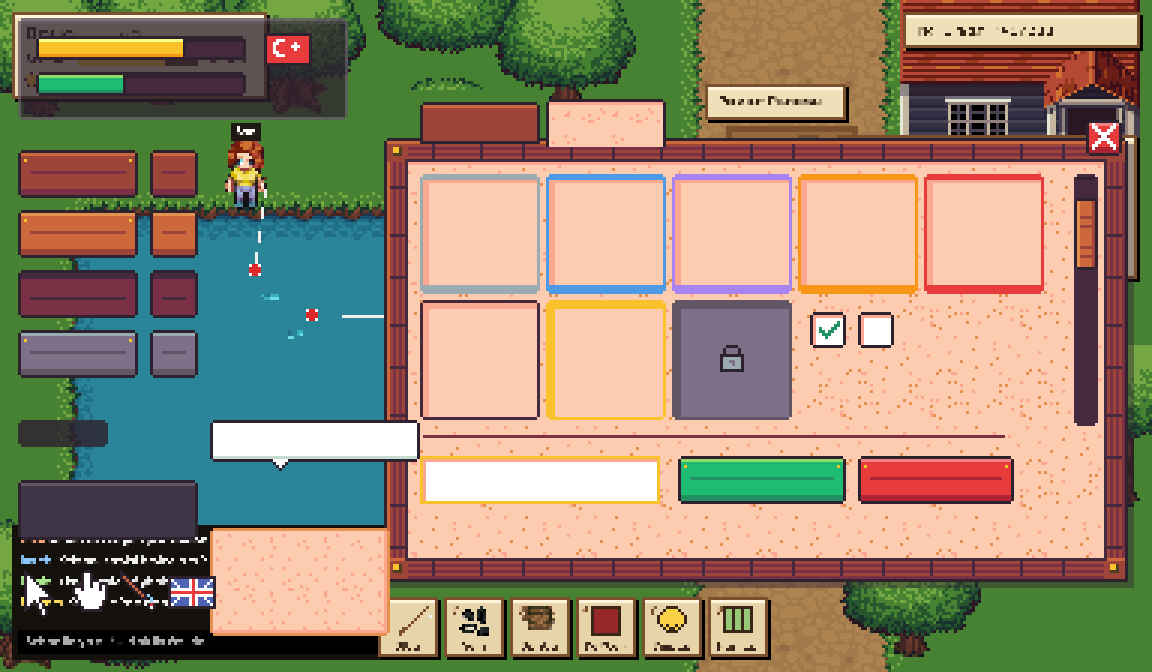
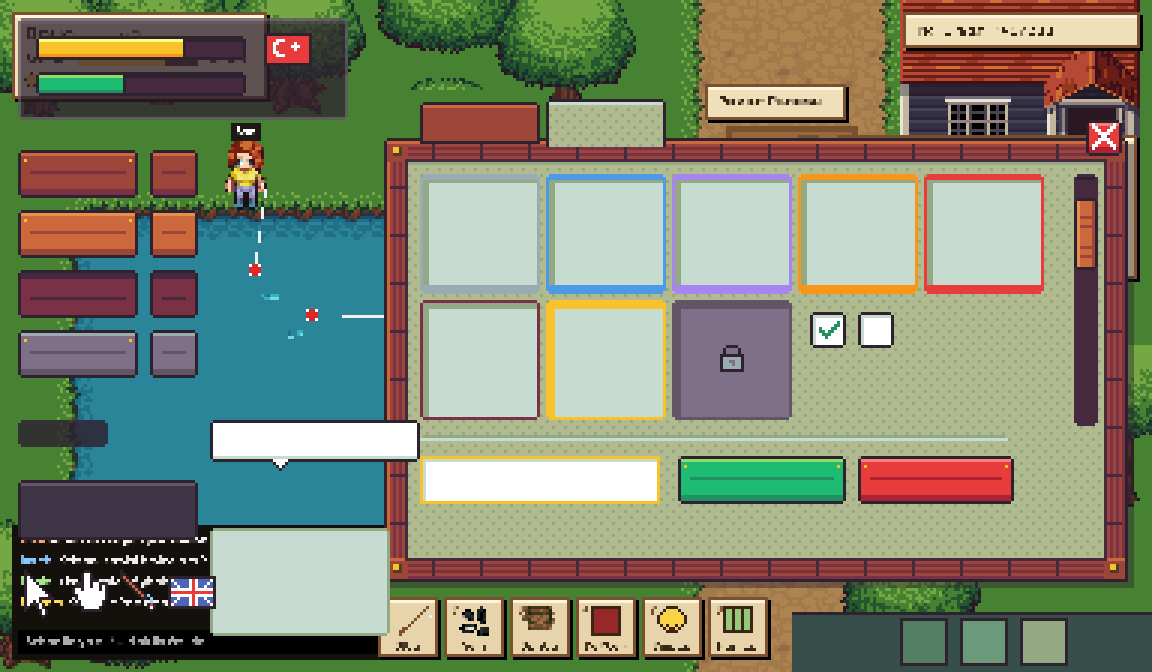
Regenerate UI kit in wood frame + sage linen theme
Adds hud_bar, flat bar buttons, card, context menu pieces; card_paper is replaced by card.

Claude-Session: https://claude.ai/code/session_01UfpJh6XiKn1JK12jZPSetR

diff --git a/tools/ui-kit/make_ui_kit.py b/tools/ui-kit/make_ui_kit.py
@@ -1,4 +1,4 @@
-"""Draws the pixel UI kit (Resurrect 64, "dark wood" theme) into client/Assets/Art/UI.
+"""Draws the pixel UI kit (Resurrect 64, wood frame + sage linen theme) into client/Assets/Art/UI.
 
 Run from the repo root:  python3 tools/ui-kit/make_ui_kit.py
 Writes one PNG per piece, ui-borders.json (9-slice borders, read by PixelArtImporter)
@@ -18,6 +18,9 @@ INK = c("2e222f")
 # wood ramp: deep, shade, face, light, shine
 WD, WM, W, WL, WH = map(c, ["45293f", "7a3045", "9e4539", "cd683d", "e6904e"])
 PAPER, PAPER_S, PAPER_D = c("fdcbb0"), c("fca790"), c("e6904e")
+# sage: linen fill of windows, slot / field faces, flat bottom bar
+LINEN, LINEN_W = c("b2ba90"), c("92a984")
+SAGE_L, SAGE, SAGE_M, SAGE_D = c("c7dcd0"), c("92a984"), c("547e64"), c("374e4a")
 NAIL, NAIL_D = c("f9c22b"), c("4c3e24")
 GREY_D, GREY, GREY_L = c("625565"), c("7f708a"), c("9babb2")
 WHITE = c("ffffff")
@@ -38,6 +41,12 @@ def speckle(im, x0, y0, x1, y1, colors, density=18, seed=3):
     rnd = random.Random(seed)
     for _ in range(max(1, (x1 - x0 + 1) * (y1 - y0 + 1) // density)):
         im.putpixel((rnd.randint(x0, x1), rnd.randint(y0, y1)), rnd.choice(colors))
+def linen(im, x0, y0, x1, y1):
+    """Woven linen, period 4 px, so a Tiled center repeats without seams."""
+    for y in range(y0, y1 + 1):
+        for x in range(x0, x1 + 1):
+            dx, dy = x - x0, y - y0
+            im.putpixel((x, y), LINEN_W if (dx // 2 + dy // 2) % 2 == 0 and (dx + dy) % 4 == 0 else LINEN)
 def from_ascii(rows, colors):
     im = new(len(rows[0]), len(rows))
     for y, row in enumerate(rows):
@@ -87,7 +96,7 @@ for state in ("normal", "hover", "pressed"):
     im.alpha_composite(cross, (1, 1 + (1 if state == "pressed" else 0)) if state == "pressed" else (1, 0))
     put(f"button_close_{state}", im)
 
-# ---------- window A: plank frame, speckled paper, drop shadow ----------
+# ---------- window: plank frame, sage linen, drop shadow ----------
 def window(s=50, f=8, sh=2):
     im = new(s, s)
     r(im, sh, sh, s - 1, s - 1, c("2e222f", 110))      # baked drop shadow
@@ -104,12 +113,11 @@ def window(s=50, f=8, sh=2):
         r(im, x, y, x + f - 2, y + f - 2, W); r(im, x, y, x + f - 2, y, WL)
         r(im, x + 2, y + 2, x + 4, y + 4, NAIL_D); r(im, x + 2, y + 2, x + 3, y + 3, NAIL)
     r(im, f - 1, f - 1, n - f, n - f, WD)               # inner lip
-    r(im, f, f, n - 1 - f, n - 1 - f, PAPER)
-    speckle(im, f, f + 1, n - 1 - f, n - 1 - f, [PAPER_S, PAPER_S, PAPER_D])
-    r(im, f, f, n - 1 - f, f, PAPER_S)
+    linen(im, f, f, n - 1 - f, n - 1 - f)
+    r(im, f, f, n - 1 - f, f, SAGE)                     # shade under the top frame
     im.putpixel((0, 0), CLR); im.putpixel((n - 1, 0), CLR); im.putpixel((0, n - 1), CLR)
     return im, (f + 1, f + 1, f + 1 + sh, f + 1 + sh)
-put("window", *window())
+put("window", *window(s=52))
 
 # ---------- box C: translucent dark (chat, HUD, server info) ----------
 im = new(16, 16)
@@ -117,11 +125,23 @@ r(im, 0, 0, 15, 15, c("625565", 200)); r(im, 1, 1, 14, 14, c("2e222f", 190)); r(
 round_corners(im); put("box_dark", im, 3)
 
 # ---------- paper card, tooltip, name tag, chat bubble ----------
-im = new(24, 24)
-r(im, 0, 0, 23, 23, PAPER_D); r(im, 1, 1, 22, 22, PAPER)
-speckle(im, 2, 2, 21, 21, [PAPER_S], density=14)
-r(im, 1, 22, 22, 22, PAPER_S); r(im, 22, 1, 22, 22, PAPER_S)
-round_corners(im); put("card_paper", im, 3)
+im = new(24, 24)   # light card inside a window (friend row, server row, rule row)
+r(im, 0, 0, 23, 23, SAGE); r(im, 1, 1, 22, 22, SAGE_L)
+round_corners(im); put("card", im, 3)
+
+# ---------- flat bottom bar (opaque sage) + its buttons ----------
+im = new(8, 16); r(im, 0, 0, 7, 15, SAGE_D); r(im, 0, 0, 7, 0, INK)
+put("hud_bar", im, (0, 2, 0, 0))
+def flat(face):
+    im = new(16, 16); r(im, 0, 0, 15, 15, INK); r(im, 1, 1, 14, 14, face); return im
+put("button_flat_normal", flat(SAGE_M), 3); put("button_flat_hover", flat(c("6a9a7a")), 3)
+put("button_flat_pressed", flat(SAGE), 3)
+
+# ---------- context menu (right click), list highlight ----------
+im = new(12, 12)
+r(im, 0, 0, 11, 11, INK); r(im, 1, 1, 10, 10, c("3e3546")); r(im, 1, 1, 10, 1, GREY_D)
+put("menu", im, 3)
+im = new(8, 8); r(im, 0, 0, 7, 7, SAGE_M); put("menu_highlight", im, 1)
 
 im = new(12, 12)
 r(im, 0, 0, 11, 11, INK); r(im, 1, 1, 10, 10, c("3e3546")); r(im, 1, 1, 10, 1, c("625565"))
@@ -138,10 +158,9 @@ put("bubble_tail", from_ascii(["xwwwwwx", ".xwwwx.", "..xwx..", "...x..."], {"x"
 # ---------- tabs ----------
 def tab(active):
     im = new(24, 16)
-    face, top = (PAPER, PAPER_S) if active else (W, WL)
-    r(im, 0, 0, 23, 15, INK); r(im, 1, 1, 22, 15, face); r(im, 1, 1, 22, 1, top)
-    if active: speckle(im, 2, 3, 21, 15, [PAPER_S], density=16, seed=5)
-    else: r(im, 1, 15, 22, 15, INK)                     # inactive tab is closed at the bottom
+    r(im, 0, 0, 23, 15, INK)
+    if active: linen(im, 1, 1, 22, 15); r(im, 1, 1, 22, 1, SAGE_L)
+    else: r(im, 1, 1, 22, 15, W); r(im, 1, 1, 22, 1, WL); r(im, 1, 15, 22, 15, INK)                     # inactive tab is closed at the bottom
     im.putpixel((0, 0), CLR); im.putpixel((23, 0), CLR)
     return im
 put("tab_active", tab(True), (4, 4, 4, 1)); put("tab_inactive", tab(False), (4, 4, 4, 1))
@@ -150,7 +169,7 @@ put("tab_active", tab(True), (4, 4, 4, 1)); put("tab_inactive", tab(False), (4, 
 def field(focus):
     im = new(32, 16)
     r(im, 0, 0, 31, 15, NAIL if focus else WD); r(im, 1, 1, 30, 14, WHITE)
-    r(im, 1, 1, 30, 1, PAPER_S); r(im, 1, 1, 1, 14, PAPER_S)   # sunken
+    r(im, 1, 1, 30, 1, SAGE_L); r(im, 1, 1, 1, 14, SAGE_L)   # sunken
     return im
 put("input_normal", field(False), 3); put("input_focus", field(True), 3)
 
@@ -174,19 +193,19 @@ r(im, 2, 6, 5, 6, W); r(im, 2, 9, 5, 9, W); round_corners(im); put("scroll_thumb
 
 def checkbox(on):
     im = new(12, 12)
-    r(im, 0, 0, 11, 11, INK); r(im, 1, 1, 10, 10, WHITE); r(im, 1, 1, 10, 1, PAPER_S); r(im, 1, 1, 1, 10, PAPER_S)
+    r(im, 0, 0, 11, 11, INK); r(im, 1, 1, 10, 10, WHITE); r(im, 1, 1, 10, 1, SAGE_L); r(im, 1, 1, 1, 10, SAGE_L)
     if on:
         im.alpha_composite(from_ascii(["......g", ".....gg", "g...gg.", "gg.gg..", ".ggg...", "..g...."],
                                       {"g": c("239063")}), (3, 3))
     round_corners(im); return im
 put("checkbox_off", checkbox(False)); put("checkbox_on", checkbox(True))
 
-im = new(16, 4); r(im, 0, 1, 15, 1, WM); r(im, 0, 2, 15, 2, PAPER); im.putpixel((0, 1), CLR); im.putpixel((15, 1), CLR)
+im = new(16, 4); r(im, 0, 1, 15, 1, SAGE); r(im, 0, 2, 15, 2, SAGE_L); im.putpixel((0, 1), CLR); im.putpixel((15, 1), CLR)
 put("divider", im, (2, 0, 2, 0))
 
 # ---------- item slots (40x40 holds a 32 px icon) ----------
 TIERS = {"common": "9babb2", "rare": "4d9be6", "epic": "a884f3", "legendary": "f79617", "mythic": "e83b3b"}
-def slot(outline=WD, fill=PAPER, inner=PAPER_S):
+def slot(outline=WM, fill=SAGE_L, inner=SAGE):
     im = new(40, 40)
     r(im, 0, 0, 39, 39, outline); r(im, 1, 1, 38, 38, fill)
     r(im, 1, 1, 38, 2, inner); r(im, 1, 1, 2, 38, inner)      # sunken top-left
@@ -276,7 +295,9 @@ for i, st in enumerate(["normal", "hover", "pressed", "disabled"]):
 # chat bubble, name tag, tooltip, card, cursors
 at(tiled("bubble", 70, 14), 70, 140); at(pieces["bubble_tail"], 90, 153)
 at(tiled("nametag", 30, 9), 6, 140)
-at(tiled("tooltip", 60, 20), 6, 160); at(tiled("card_paper", 60, 36), 70, 176)
+at(tiled("tooltip", 60, 20), 6, 160); at(tiled("card", 60, 36), 70, 176)
+at(tiled("hud_bar", 120, 20), 264, 204)
+for i, st in enumerate(["normal", "hover", "pressed"]): at(pieces[f"button_flat_{st}"], 300 + i * 20, 206)
 for i, n in enumerate(["cursor_arrow", "cursor_hand", "cursor_rod"]): at(pieces[n], 8 + i * 16, 190)
 at(pieces["flag_en"], 56, 192)
 pv.resize((pv.width * 3, pv.height * 3), Image.NEAREST).save(PREVIEW)

diff --git a/docs/tasarim/15-gorsel-stil.md b/docs/tasarim/15-gorsel-stil.md
@@ -29,14 +29,16 @@ Karar (18.10.2026): oyun **pixel-art**. Sebep: tek geliştirici, tasarımcı yok
 
 ## UI kiti (karar 28.10.2026)
 
-Hazır paket yerine kodla çizilen kendi kitimiz: `tools/ui-kit/make_ui_kit.py` → `client/Assets/Art/UI/` (60 parça). Önizleme: `docs/gorsel/ui-kit-onizleme.png`.
+Hazır paket yerine kodla çizilen kendi kitimiz: `tools/ui-kit/make_ui_kit.py` → `client/Assets/Art/UI/` (66 parça). Önizleme: `docs/gorsel/ui-kit-onizleme.png`. Ekran taslakları proje dosyalarında (`ui/pencereler/`, `ui/giris-akisi/`).
 
-- Renk: "koyu ahşap" (Resurrect 64: `45293f` `7a3045` `9e4539` `cd683d` `e6904e`), kağıt `fdcbb0`.
-- **Büyük pencereler** (defter, dükkan, profil, sunucu listesi): `window`, iskele gibi tahta çerçeve, benekli kağıt, gölge.
-- **Oyun üstünde duran küçük kutular** (chat, HUD, sunucu bilgisi, isim etiketi): `box_dark`, saydam koyu. Yarı saydam kağıt denendi, yazı okunmadığı için seçilmedi.
+- Tema: **ahşap çerçeve + adaçayı keten** (karar 28.10.2026). Ahşap Resurrect 64: `45293f` `7a3045` `9e4539` `cd683d` `e6904e`; keten `b2ba90` / `92a984`; açık yüzey (yuva, kart) `c7dcd0`.
+- **Pencereler** (çanta, defter, profil, arkadaşlar, takas, ayarlar, sunucu listesi): `window`, tahta çerçeve, keten zemin, gölge. Başlık çerçevenin üstündeki ahşap plakada, pencere plakadan sürüklenir. Çanta zemini hafif saydam.
+- **Alt bar**: `hud_bar` düz, opak adaçayı `374e4a`; üstündeki butonlar `button_flat_*`.
+- **Oyun üstünde duran küçük kutular** (chat geçmişi, sol / sağ üst bilgi, isim etiketi, bilgi kutusu): `box_dark`, saydam koyu. Sağ tık menüsü `menu` + `menu_highlight`.
+- Pencere içi satırlar (arkadaş, sunucu): `card`.
 - Butonlar 32×16 ve 16×16, `wood` / `green` (onay, satın al) / `red` (sil, sat) × normal, hover, pressed, disabled.
 - Eşya yuvası 40×40 (32 px ikon), Tier rengi çerçevede: Common `9babb2`, Rare `4d9be6`, Epic `a884f3`, Legendary `f79617`, Mythic `e83b3b`.
-- 9-slice kenarları `ui-borders.json`'da; `PixelArtImporter` içe aktarırken uygular. Desenli parçalar (pencere, kağıt, sekme) Unity'de **Image Type: Tiled** ile kullanılır, uzatılırsa benekler esner. Düz parçalar Sliced olabilir.
+- 9-slice kenarları `ui-borders.json`'da; `PixelArtImporter` içe aktarırken uygular. Desenli parçalar (pencere, sekme) Unity'de **Image Type: Tiled** ile kullanılır, uzatılırsa keten deseni esner. Düz parçalar Sliced olabilir.
 - Renk ya da parça değişince script düzenlenir ve yeniden çalıştırılır; PNG'ler elle düzenlenmez.
 - Henüz yok: pixel font (Türkçe harfli), HUD ve emote ikonları (Perchance), logo.
 
